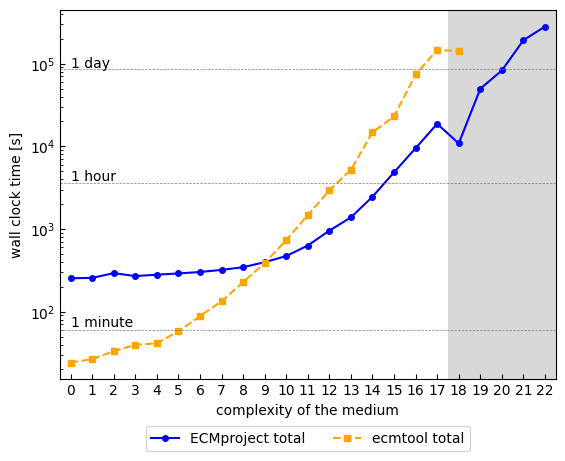
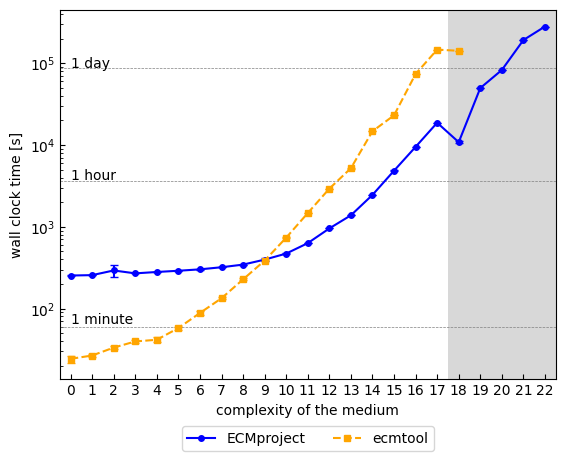
changed behaviour on the gnutime time file for better reproduciability

diff --git a/performance/benchmark_test.py b/performance/benchmark_test.py
@@ -10,6 +10,13 @@ Requirements to work when working with all three tool options: Needs environment
                       3) cobra (conda install -c conda-forge cobra)
                          and ECMproject
 
+Usage example:
+
+    Performs ECMproject with 20 cores on E.Coli core model. 2 Repeats. Saves time result files in the ./new/ directory.
+
+    ./benchmark_test.py -f ../metabolic_models/e_coli_core.xml -m e_coli_core -t ECMproject -n 20 -r 2 -op ./new/
+    
+
 @author: Christian Mayer
 """
 
@@ -184,7 +191,7 @@ if __name__ == '__main__':
                         type=str,
                         metavar='FILE',
                         action='store',
-                        default='/opt/lrslib/v072/mplrs')
+                        default='mplrs')
     parser.add_argument('-ep', '--ECMproject',
                         help='Path to ECMproject.py.',
                         type=str,
@@ -202,7 +209,7 @@ if __name__ == '__main__':
                         type=str,
                         metavar='FILE',
                         action='store',
-                        default='./gtime/bin/time')
+                        default='time')
     parser.add_argument('-v', '--verbose',
                         help='Result dictionary will be printed also as console output.',
                         action='store_true')
@@ -258,6 +265,11 @@ if __name__ == '__main__':
     # create temporary directory
     if not os.path.exists(tmp_path):
         os.mkdir(tmp_path)
+    # create outpath directory
+    if not os.path.exists(outpath):
+        os.mkdir(outpath)
+        print(f'Directory "{outpath}" got created.')
+
     
     if ECMproject_switch:
         ##### ECMproject #####

diff --git a/performance/plot_mmsyn_x_axis.py b/performance/plot_mmsyn_x_axis.py
@@ -41,7 +41,7 @@ if __name__ == '__main__':
     day = True # 1 day mark in y axis
     y_borders = False # if not False, give the border values of the y axis (for log scale use power of.... e.g. (10**-1, 10**5))
     memory = False
-    stdev = False
+    stdev = True
     ecmtool = True
     pool = False
     single = False
@@ -52,8 +52,8 @@ if __name__ == '__main__':
         lookup_time_ecmtool_1 = 'time_total'
         lookup_time_ecmtool_2 = False
             
-    ECMproject_label = 'ECMproject total'
-    ecmtool_label = 'ecmtool total'
+    ECMproject_label = 'ECMproject'
+    ecmtool_label = 'ecmtool'
     
     # range of x-axis for model complexity
     x = list(range(0,max_complexity+1))

diff --git a/ECMproject.py b/ECMproject.py
@@ -485,7 +485,8 @@ def merge_V_representation(reaction_pair_index, array, n_reactions):
         index_1, index_2 = index_pair
         merged_reaction = array[:,index_1] - array[:,index_2]
         array[:,index_1] = merged_reaction
-    # since all backward reations at the end:
+    # since all backward reactions at the end:
+    # its important to just remove them at the end because it would mess up the index_2 indices if deleted beforehand
     array = array[:,:(n_reactions)]
     # removing all rows just containing 0
     array = array[~np.all(array == 0, axis=1)]

diff --git a/README.md b/README.md
@@ -80,7 +80,7 @@ make && make mplrs && make install
 
 ### Tool for measuring used memory
 
-For reproduction of all result time files, the script 'benchmark_test.py' is used. This script uses the 'time' function of the GNU library, which may has to be installed additionally to your system (https://www.gnu.org/software/time/).
+For reproduction of all result time files, the script 'benchmark_test.py' is used. This script uses the 'time' function of the GNU library, which may has to be installed additionally to your system (https://www.gnu.org/software/time/). The time functions needs to be able to perform the verbose '-v' option. Lookout to have/install a version which implements this option (for example time-1.9 version).
 
 ## Installation
 
